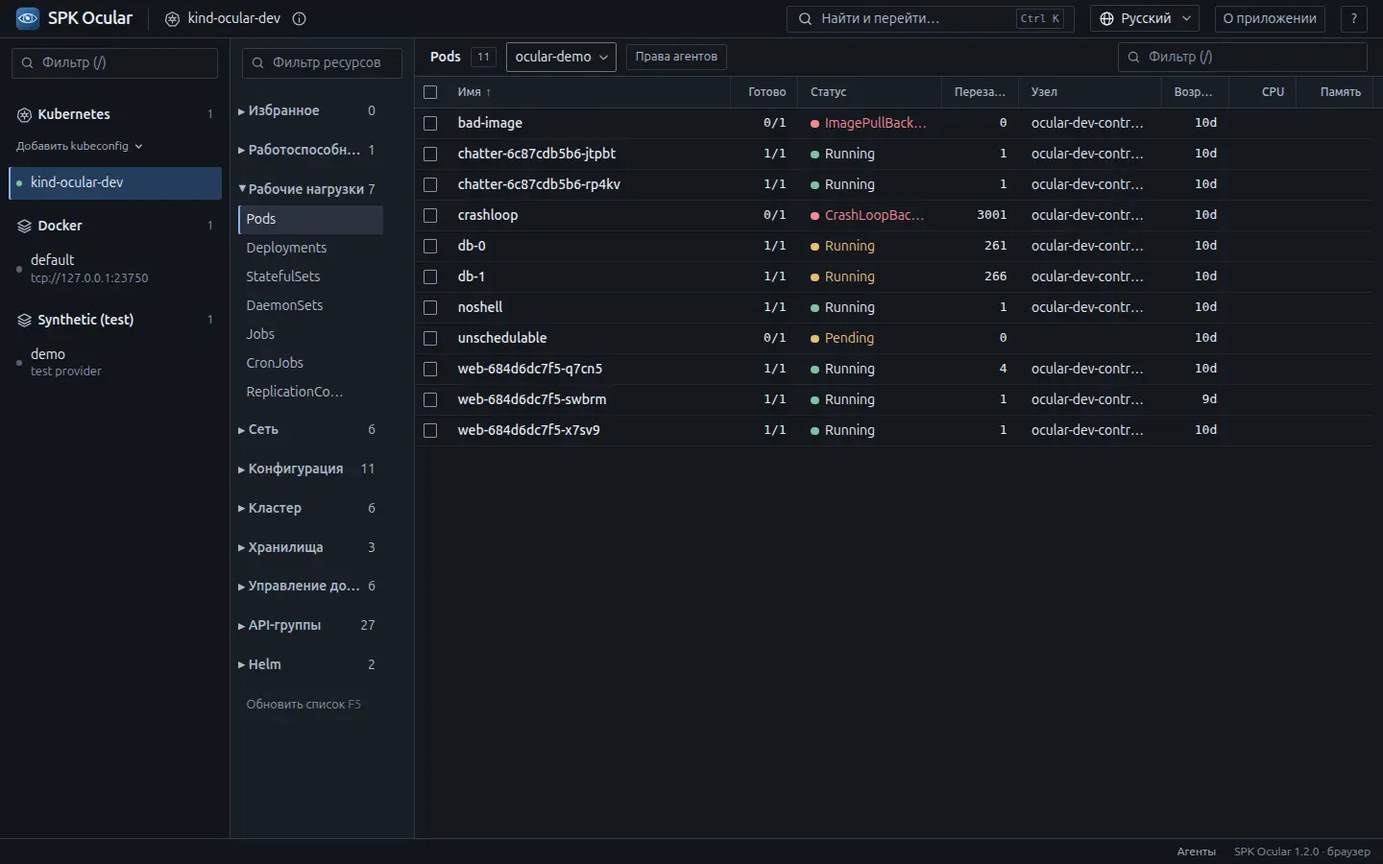
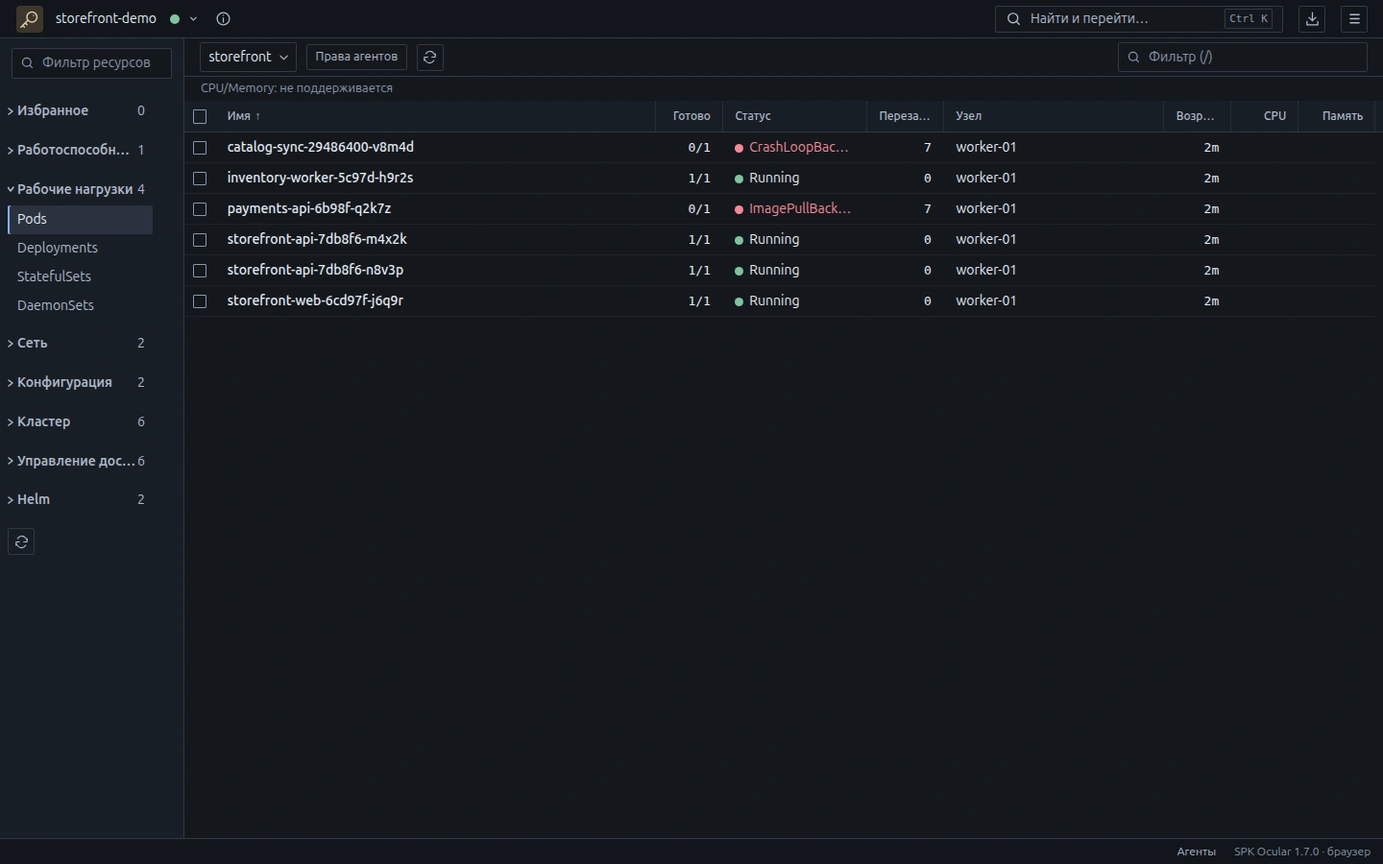
Update 1.7.0 product screenshots and bounded inventory copy

diff --git a/src/i18n/copy.ts b/src/i18n/copy.ts
@@ -5,6 +5,9 @@ import fr from './locales/fr.json';
 import pt from './locales/pt.json';
 import ja from './locales/ja.json';
 export const en = {
+  clusterTitle: "Built to respect your cluster.", clusterText: "Ocular loads the resource type and namespaces you choose. It avoids collecting every resource and full description in the background.",
+  clusterPoints: [["Small requests, shared results", "Automatic small pages build a complete list. Compact caches are reused and kept current through watches."], ["Bounded work", "Request concurrency, request rates and idle cache retention are limited. Large All Namespaces reads ask you to choose namespaces instead of silently showing a partial list."], ["You control the load", "Refresh explicitly, follow elapsed time and received data, or cancel a list request. The cluster graph loads only when you ask."]],
+
   investigationTitle: "Investigate with the evidence connected.",
   investigation: [{"title": "Configuration risks and image reports", "text": "Review Kubernetes workload settings, declared RBAC rules and NetworkPolicy selection. Read existing Trivy Operator vulnerability reports with image, package and available fix details. Ocular does not run scans or install the operator; findings do not prove exploitability or compliance.", "image": "security", "alt": "SPK Ocular Security workspace with configuration findings and Trivy Operator setup guidance"}, {"title": "Cluster graph", "text": "Explore UID-based relationships and declared Service, Ingress and Gateway routes. This is configuration, not measured traffic.", "image": "graph", "alt": "SPK Ocular · Cluster graph"}, {"title": "Events timeline", "text": "Inspect bounded Kubernetes Events snapshots grouped by workload ownership. Refresh explicitly; retention and incomplete coverage stay visible. This is not an audit history.", "image": "timeline", "alt": "SPK Ocular · Events timeline"}, {"title": "Explain RBAC", "text": "Trace ServiceAccount bindings and role rules. Check requests as the current connection with the server; declarations and self-access decisions stay separate.", "image": "rbac", "alt": "SPK Ocular · Explain RBAC"}, {"title": "Compare saved resources", "text": "Pair resources on connected targets and compare normalized read-only YAML. Secret payloads and unsaved drafts are excluded; service fields are optional.", "image": "compare", "alt": "SPK Ocular · Compare saved resources"}, {"title": "Keep your investigation workspace", "text": "Pin read-only properties and keep log references, ended terminal slots and panel sizes across restarts. Connect and resume explicitly; no contents or commands are saved or replayed.", "image": "workspace", "alt": "SPK Ocular · Keep your investigation workspace"}],
   securityDemo: "Actual app · simulated security findings",
@@ -21,7 +24,7 @@ export const en = {
   galleryCaptions: ['Spot failing pods in the namespaces you selected.', 'Inspect a pod and follow its logs without leaving the resource.', 'Review release values and open revision history.', 'Standalone containers and Compose services in one container list.'],
   installSteps: ['Choose DEB/RPM for Linux, MSI for Windows or DMG for macOS. Portable archives are also available.', 'Check the SHA-256 checksum, then install and open Ocular.', 'Use your existing kubeconfig or Docker context to inspect your environment.'],
   explore: 'See it in action', freeShort: 'All features free. For you and your company.', platforms: 'Linux, Windows & macOS · x86-64 & ARM64',
-  heroCaption: 'Inspect a pod. Follow its logs alongside.', demo: 'Actual app · local demo cluster', syntheticDemo: 'Actual app · simulated Helm release', fullImage: 'Open full-size screenshot', closeImage: 'Close screenshot',
+  heroCaption: 'Inspect a pod. Follow its logs alongside.', demo: "Actual app · simulated Kubernetes API data", syntheticDemo: 'Actual app · simulated Helm release', fullImage: 'Open full-size screenshot', closeImage: 'Close screenshot',
   facts: [['Kubernetes + Docker', 'One place for daily operations'], ['Your existing access', 'Kubeconfig and Docker contexts'], ['Helm built in', 'No separate Helm CLI']],
   overview: 'From “what failed?” to “what next?”', overviewText: 'The details you need to investigate and act, without piecing together a dozen separate windows.',
   workflows: [
@@ -35,10 +38,10 @@ export const en = {
   filesPoints: ["Cached folders, entry counts and symlink navigation", "Syntax highlighting and UTF-8 editing up to 2 MiB", "Save with unsaved-edit protection and external-change checks", "Desktop downloads with a native destination-directory chooser"],
   filesBoundary: "Requires a running Linux container: sh for browsing, readlink for symlinks and tar for downloads. Native file and folder copies are streamed without the editor’s 2 MiB limit; existing destination names are not overwritten. Browser-mode downloads require the desktop app.",
   filesAlt: "SPK Ocular with an expanded application folder tree and highlighted YAML configuration",
-  filesCaption: "Actual app · local Docker demo",
+  filesCaption: "Actual app · simulated Docker Engine data",
   toolsTitle: 'The everyday tools, already here.',
   tools: [["Quick navigation · Ctrl+K", "Jump to views, environments and namespaces, or find resources by type and name, such as dep model, within your selected namespaces. Use Command+K on macOS."], ['Kubernetes resources', 'Pods, deployments, services and custom resources, with details and relationships.'], ['Docker', 'Inspect standalone containers alongside Compose projects and services. Follow logs, open a terminal and review container actions.'], ['Reviewed changes', 'Inspect a change before applying it. Existing infrastructure permissions still apply.'], ['A workspace that remembers', 'Keep namespace selections, filters, favorites and column widths between visits.']],
-  gallery: 'A closer look at your next workspace.', galleryText: "Real screens from SPK Ocular 1.2.0. Demo data, not product mockups.",
+  gallery: 'A closer look at your next workspace.', galleryText: "Real screens from SPK Ocular 1.7.0. Demo data, not product mockups.",
   galleryTabs: ['Workloads', 'Logs & details', 'Helm releases', 'Docker containers'],
   galleryAlts: ['Kubernetes pods and health in SPK Ocular on a local demo cluster', 'Kubernetes resource details and application logs in SPK Ocular', 'Helm release values in SPK Ocular using a simulated release', 'Standalone Docker container and Compose containers in SPK Ocular on a local demo engine'],
   agentLabel: 'YOUR AGENTS. YOUR RULES.', agentTitle: 'Give your agent useful access. Keep control of changes.',
@@ -71,6 +74,9 @@ export const en = {
 };
 export type Copy = typeof en;
 export const ru: Copy = {
+  clusterTitle: "Бережно к ресурсам кластера.", clusterText: "Ocular загружает выбранный тип ресурсов и выбранные пространства имён. Приложение не собирает все ресурсы и их полные описания в фоне.",
+  clusterPoints: [["Небольшие запросы, общий кэш", "Небольшие страницы автоматически складываются в полный список. Компактный кэш переиспользуется и поддерживается через watch."], ["Ограниченная нагрузка", "Параллелизм, частота запросов и хранение неиспользуемых кэшей ограничены. Слишком большой запрос All Namespaces предложит выбрать пространства имён вместо незаметного показа частичного списка."], ["Загрузка под вашим контролем", "Обновите список вручную, следите за временем и полученными данными или отмените запрос. Граф кластера загружается только по вашему нажатию."]],
+
   investigationTitle: "Разбирайтесь, сохраняя связи и контекст.",
   investigation: [{"title": "Риски конфигурации и отчёты об образах", "text": "Проверяйте настройки нагрузок Kubernetes, объявленные правила RBAC и выбор ресурсов политиками NetworkPolicy. Читайте готовые отчёты Trivy Operator об уязвимостях с данными об образе, пакете и доступном исправлении. Ocular не запускает сканирование и не устанавливает оператор; результаты не доказывают возможность эксплуатации или соответствие стандартам.", "image": "security", "alt": "Раздел Security в SPK Ocular: риски конфигурации и подсказка по установке Trivy Operator"}, {"title": "Граф кластера", "text": "Изучайте связи ресурсов по UID и объявленные маршруты Service, Ingress и Gateway. Это конфигурация, а не измеренный сетевой трафик.", "image": "graph", "alt": "SPK Ocular · Граф кластера"}, {"title": "Хронология событий", "text": "Просматривайте ограниченные снимки Kubernetes Events с группировкой по владельцам нагрузок. Обновление явное; срок хранения и неполное покрытие видны. Это не история аудита.", "image": "timeline", "alt": "SPK Ocular · Хронология событий"}, {"title": "Объяснение RBAC", "text": "Прослеживайте привязки ServiceAccount и правила ролей. Проверяйте запросы на сервере от имени текущего подключения; объявленные права и решения о собственном доступе показаны отдельно.", "image": "rbac", "alt": "SPK Ocular · Объяснение RBAC"}, {"title": "Сравнение сохранённых ресурсов", "text": "Выбирайте пару ресурсов на подключённых окружениях и сравнивайте нормализованный YAML без редактирования. Данные Secret и несохранённые правки исключены; служебные поля включаются отдельно.", "image": "compare", "alt": "SPK Ocular · Сравнение сохранённых ресурсов"}, {"title": "Сохранение рабочего пространства", "text": "Закрепляйте свойства только для чтения и сохраняйте ссылки на логи, завершённые вкладки терминала и размеры панелей после перезапуска. Подключение и продолжение явные; содержимое и команды не сохраняются и не воспроизводятся.", "image": "workspace", "alt": "SPK Ocular · Сохранение рабочего пространства"}],
   securityDemo: "Настоящее приложение · тестовые данные Security",
@@ -87,7 +93,7 @@ export const ru: Copy = {
   galleryCaptions: ['Найдите проблемные pods в выбранных пространствах имён.', 'Проверьте pod и смотрите его логи рядом с подробностями.', 'Изучите values релиза и откройте историю ревизий.', 'Отдельные контейнеры и сервисы Compose в общем списке контейнеров.'],
   installSteps: ['Выберите DEB/RPM для Linux, MSI для Windows или DMG для macOS. Также доступны переносимые архивы.', 'Проверьте контрольную сумму SHA-256, установите и откройте Ocular.', 'Используйте существующий kubeconfig или Docker context для работы со своим окружением.'],
   explore: 'Посмотреть в деле', freeShort: 'Все функции бесплатны. Для вас и вашей компании.', platforms: 'Linux, Windows и macOS · x86-64 и ARM64',
-  heroCaption: 'Состояние pod и его логи рядом.', demo: 'Настоящее приложение · локальный демостенд', syntheticDemo: 'Настоящее приложение · тестовый релиз Helm', fullImage: 'Открыть скриншот в полном размере', closeImage: 'Закрыть скриншот',
+  heroCaption: 'Состояние pod и его логи рядом.', demo: "Настоящее приложение · имитация данных Kubernetes API", syntheticDemo: 'Настоящее приложение · тестовый релиз Helm', fullImage: 'Открыть скриншот в полном размере', closeImage: 'Закрыть скриншот',
   facts: [['Kubernetes + Docker', 'Единое рабочее пространство'], ['Ваш доступ', 'Kubeconfig и контексты Docker'], ['Helm уже внутри', 'Без отдельной установки CLI']],
   overview: 'От «что сломалось?» к «что делать?»', overviewText: 'Ресурсы, события и инструменты для диагностики рядом. Не нужно собирать картину из десятка отдельных окон.',
   workflows: [
@@ -101,10 +107,10 @@ export const ru: Copy = {
   filesPoints: ["Кеширование папок, счётчики элементов и переход по ссылкам", "Подсветка синтаксиса и редактирование UTF-8 файлов до 2 МиБ", "Сохранение с защитой черновика и проверкой внешних изменений", "Скачивание в desktop-приложении с системным выбором каталога"],
   filesBoundary: "Нужен работающий Linux-контейнер: sh для просмотра, readlink для ссылок и tar для скачивания. Файлы и папки копируются потоком без ограничения редактора в 2 МиБ; существующие имена не перезаписываются. Для скачивания в браузерном режиме требуется desktop-приложение.",
   filesAlt: "SPK Ocular: раскрытое дерево папок приложения и конфигурация YAML с подсветкой",
-  filesCaption: "Настоящее приложение · локальный стенд Docker",
+  filesCaption: "Настоящее приложение · имитация данных Docker Engine",
   toolsTitle: 'Рабочие инструменты уже на месте.',
   tools: [["Быстрый переход · Ctrl+K", "Переходите к разделам, окружениям и пространствам имён или находите ресурсы по типу и имени, например dep model, в выбранных пространствах имён. На macOS используйте Command+K."], ['Ресурсы Kubernetes', 'Pods, deployments, services и пользовательские ресурсы с подробностями и связями.'], ['Docker', 'Отдельные контейнеры и проекты с сервисами Compose. Просматривайте логи, открывайте терминал и проверяйте действия с контейнерами.'], ['Проверка изменений', 'Просматривайте изменения перед применением. Права доступа инфраструктуры продолжают действовать.'], ['Рабочее место с памятью', 'Выбранные пространства имён, фильтры, избранное и ширины колонок сохраняются.']],
-  gallery: 'Посмотрите, как это устроено.', galleryText: "Настоящие экраны SPK Ocular 1.2.0. Демонстрационные данные, а не макеты интерфейса.",
+  gallery: 'Посмотрите, как это устроено.', galleryText: "Настоящие экраны SPK Ocular 1.7.0. Демонстрационные данные, а не макеты интерфейса.",
   galleryTabs: ['Рабочие нагрузки', 'Логи и детали', 'Релизы Helm', 'Контейнеры Docker'],
   galleryAlts: ['Pods Kubernetes и их состояния в SPK Ocular на локальном демостенде', 'Детали ресурса Kubernetes и логи приложения в SPK Ocular', 'Значения тестового релиза Helm в SPK Ocular', 'Отдельный контейнер Docker и контейнеры Compose в SPK Ocular на локальном демостенде'],
   agentLabel: 'ВАШИ АГЕНТЫ. ВАШИ ПРАВИЛА.', agentTitle: 'Дайте агенту контекст. Оставьте контроль себе.',

diff --git a/README.md b/README.md
@@ -72,8 +72,7 @@ Ctrl+K/Command+K navigation includes type/name queries such as `dep model`
 within selected namespaces. Security describes read-only workload configuration,
 declared RBAC rules, NetworkPolicy selection and existing Trivy Operator reports.
 It does not advertise live scanning, operator installation, exploitability or
-compliance verification. These capabilities are present in the published 1.4.0
-application. kubectl and a
+compliance verification. These capabilities are present in the published application. kubectl and a
 separate Helm CLI are unnecessary; kubeconfig-configured external authentication
 helpers still need to be installed. New product copy describes released features
 without announcements or competitor comparisons. Docker includes standalone containers and Compose project/service
@@ -87,16 +86,15 @@ No vendor claims, customer logos, testimonials or performance statistics are reu
 
 ## Screenshot source
 
-The twenty-two existing RU/EN product screenshots show SPK Ocular 1.2.0 on isolated fixtures.
-The two Security screenshots show the released 1.4.0 application with its
-isolated synthetic provider. Their captions explicitly identify simulated
-security findings; they do not demonstrate a live scanner or real vulnerabilities.
-Kubernetes captures use the owned ocular-dev demo cluster; Docker captures use the
-verified ocular-dind engine, and Helm uses the explicitly labeled synthetic
-release. The file screen shows an actual /app project with config, scripts, src,
-public, tests, hidden files and a symlink, with application.yaml open.
-Versioned image URLs identify each screenshot set: 1.2.0 for the existing screens
-and 1.4.0 for Security.
+All twenty-four RU/EN product screenshots show the actual SPK Ocular 1.7.0
+production application in isolated profiles. Kubernetes and Docker use owned
+synthetic HTTP API fixtures, without a real cluster, daemon or containers. Helm
+and Security use the built-in synthetic provider; simulated findings do not
+represent a live scan or real vulnerabilities. File browsing executes only the
+fixture's bounded read-only scripts against its scratch demonstration tree.
+The captures are real application UI, not interface mockups. Captions identify
+simulated data. All product and social-image URLs use the 1.7.0 version query.
+The other six website locales use the English screenshots with an explicit notice.
 
 ## Develop and verify
 
@@ -169,16 +167,12 @@ regardless of GitHub upload order. No unmeasured memory or comparative size clai
 are published. The site neither uploads user data nor starts any app connection.
 
 `workloads`, `logs`, `health`, `graph`, `timeline`, `rbac`, `compare` and
-`workspace` RU/EN screenshots show read-only inspection of the verified disposable
-`kind-ocular-dev` / `ocular-demo` fixture. `helm` shows the built-in synthetic
-Helm release, labeled separately. `docker` and `files` show an owned standalone
-container alongside Compose containers on the verified `ocular-dind` engine.
-Product screenshots use isolated profiles, with no user environment or credentials.
-Security shows configuration findings and missing-report setup guidance from
-the synthetic provider, not a Trivy scan. WebP conversion preserves the
-actual app image. Social cards are rendered by `scripts/social.mjs` from the
-current page copy, font and screenshot. Other website locales use the English
-screenshot set and disclose that UI language explicitly.
+`workspace` show the isolated Kubernetes HTTP fixture. `docker` and `files` show
+standalone and Compose resources from the isolated Engine HTTP fixture. `helm`
+and `security` use explicitly simulated built-in provider data. All captures
+use isolated profiles without user credentials or configuration. WebP conversion
+preserves the captured application image. Social cards are rendered by
+`scripts/social.mjs` from the current page copy, font and product screenshot.
 
 Screenshots use demonstration data and are labeled accordingly. Product facts
 must match `README.md` and `docs/usage.md` on `master`. When the product changes,
@@ -221,3 +215,14 @@ limits and the running Linux container/tool requirements. File browsing does not
 Ocular's own behavior without competitor comparisons or exclusivity claims.
 Public product copy must not name competing products to compare features or
 claim that they lack a capability; this is the owner's publishing preference.
+
+## Bounded inventory copy
+
+All eight locales describe the released 1.7.0 demand-kind/selected-namespace
+inventory, automatic small pages, shared compact caches/watch, bounded request
+concurrency/rate and idle retention. The All Namespaces safeguard asks for a
+narrower selection instead of presenting partial results as complete. Refresh,
+elapsed time, consumed response-body data and cancellation describe live resource
+lists; graph admission is explicit. This copy does not claim zero cluster impact,
+universal memory use or completed production-scale certification. Long-soak
+plateau acceptance remains incomplete in the application measurement report.

diff --git a/docs/localization.md b/docs/localization.md
@@ -73,11 +73,11 @@ components are required. It retains the continuing need for external
 authentication helpers configured in kubeconfig. The tools section
 explains Ctrl+K/Command+K navigation to views, environments and namespaces, and
 type/name resource queries such as `dep model` within selected namespaces.
-The query capability is available in the released 1.3.0 and 1.4.0 application;
+The query capability is available in the published application;
 it reads one requested kind, rather than searching every kind in the cluster.
 Keep these descriptions factual, with no competitor or exclusivity claims.
 
-The 1.2.0 copy describes the cluster graph as declared relationships/routes,
+Investigation copy describes the cluster graph as declared relationships/routes,
 Timeline as bounded Events snapshots rather than audit history, and RBAC
 provenance separately from self-only server decisions. Saved-resource comparison
 excludes Secret payloads and drafts. Workspace continuity restores metadata with
@@ -88,13 +88,13 @@ behavior. Provider retention, export caps and incomplete reads are explicit.
 Both RU/EN screenshot sets use actual app captures; the other six locales retain
 the explicit English-UI notice. Preserve sh/readlink/tar requirements, the UTF-8
 editor limit of 2 MiB, desktop-only file downloads and refusal to overwrite existing
-names. Existing screenshot and social-image URLs carry the 1.2.0 version query.
-Security uses separately versioned 1.4.0 RU/EN captures and a localized caption
+names. All screenshot and social-image URLs carry the 1.7.0 version query.
+Security uses current 1.7.0 RU/EN captures and a localized caption
 identifying simulated security findings. All eight locales describe workload
 configuration, declared RBAC rules, NetworkPolicy selection and existing Trivy
 Operator reports without claiming live scans, exploitability or compliance.
 Security neither installs the operator nor runs scans. New feature copy must
-describe a verified published release; the complete 1.4.0 assets are verified.
+describe a verified published release; release asset verification is required before publication.
 
 Linux installation copy describes the released 1.6.1 DEB/RPM glibc 2.35 floor.
 Ubuntu 24.04 remains the native build baseline. Normal package installation and
@@ -104,3 +104,10 @@ All eight locales retain GTK 3/WebKit2GTK 4.1 requirements in browser mode and
 the isolated userspace/shared-kernel/X11 scope. These checks do not certify stock
 kernels, Wayland or GPU drivers. Do not generalize the matrix into universal
 Linux compatibility.
+
+The cluster-care section is complete in all eight languages. It describes
+selected-kind/namespace loading, compact shared caches and watches, request/idle
+retention limits, All Namespaces admission and user refresh/cancel controls. It
+contains no unmeasured performance statistic or no-impact guarantee. Kubernetes
+and Docker captions explicitly identify simulated API data from isolated HTTP
+fixtures; Helm and Security remain explicitly synthetic.
